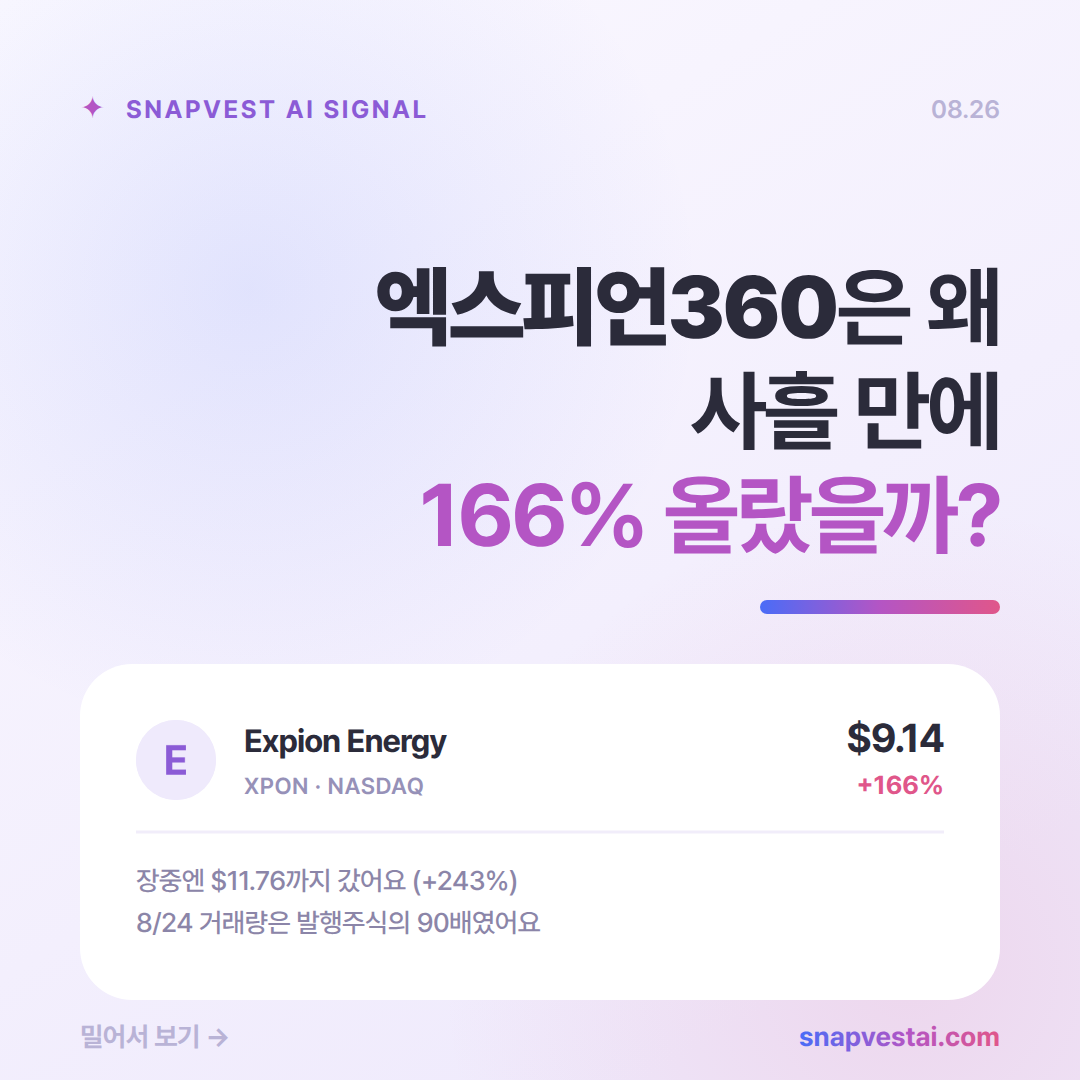
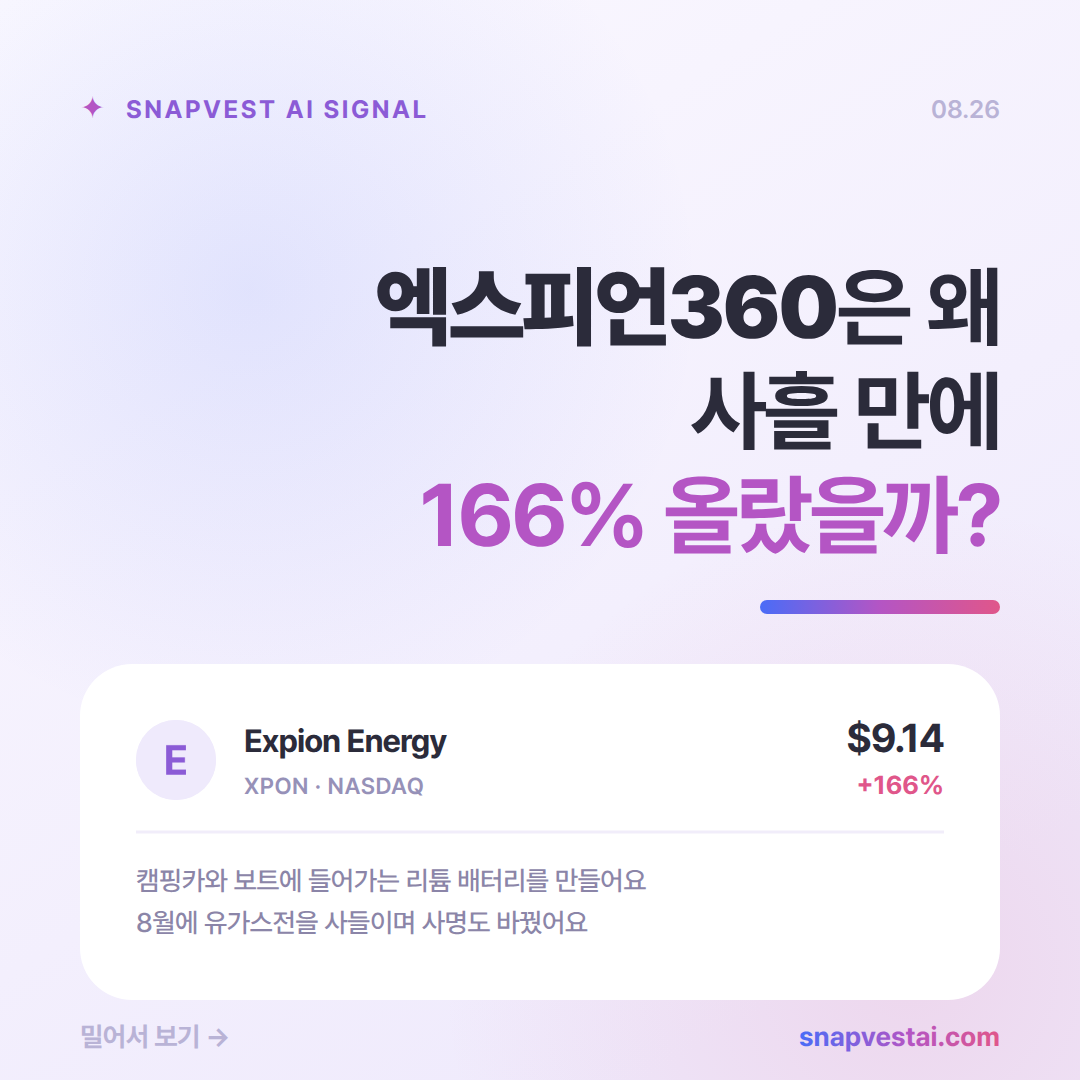
표지 흰 카드 두 줄을 회사 설명으로
가격과 등락률이 바로 윗줄에 크게 박혀 있는데 그 아래 두 줄에서도
장중 고가와 거래량 배수를 반복하고 있었다. 표지에서는 무슨 회사인지를
먼저 알려주고 수급 숫자는 2번·4번 카드에서 다루는 게 맞다.

- XPON 표지를 배터리 사업과 사명 변경 설명으로 교체
- SKILL.md 에 쓰지 말 것/이렇게 예시를 표로 박아뒀다
- README 필드 표에도 같은 규칙을 적었다

Changed region(s): [[0.1222, 0.7944, 0.6111, 0.8861]]

diff --git a/cardnews/README.md b/cardnews/README.md
@@ -89,7 +89,7 @@ python3 generate.py config.json out
 | 키 | 설명 |
 |---|---|
 | `cover_line1~3` | 헤드라인 3줄. **3번째 줄이 마젠타** |
-| `cover_fact1~2` | 카드 하단 요약 2줄 |
+| `cover_fact1~2` | 카드 하단 2줄. **회사 설명을 쓴다.** 주가·거래량 이야기는 금지 (등락률은 바로 위에 이미 있다) |
 | `logo` | 흰 카드 왼쪽 원형 로고. **비워두면 빈 원**. `make_photos.py` 가 만든 `assets/logo-chip.png` 를 쓴다 |
 
 ### 2번 기업 설명
